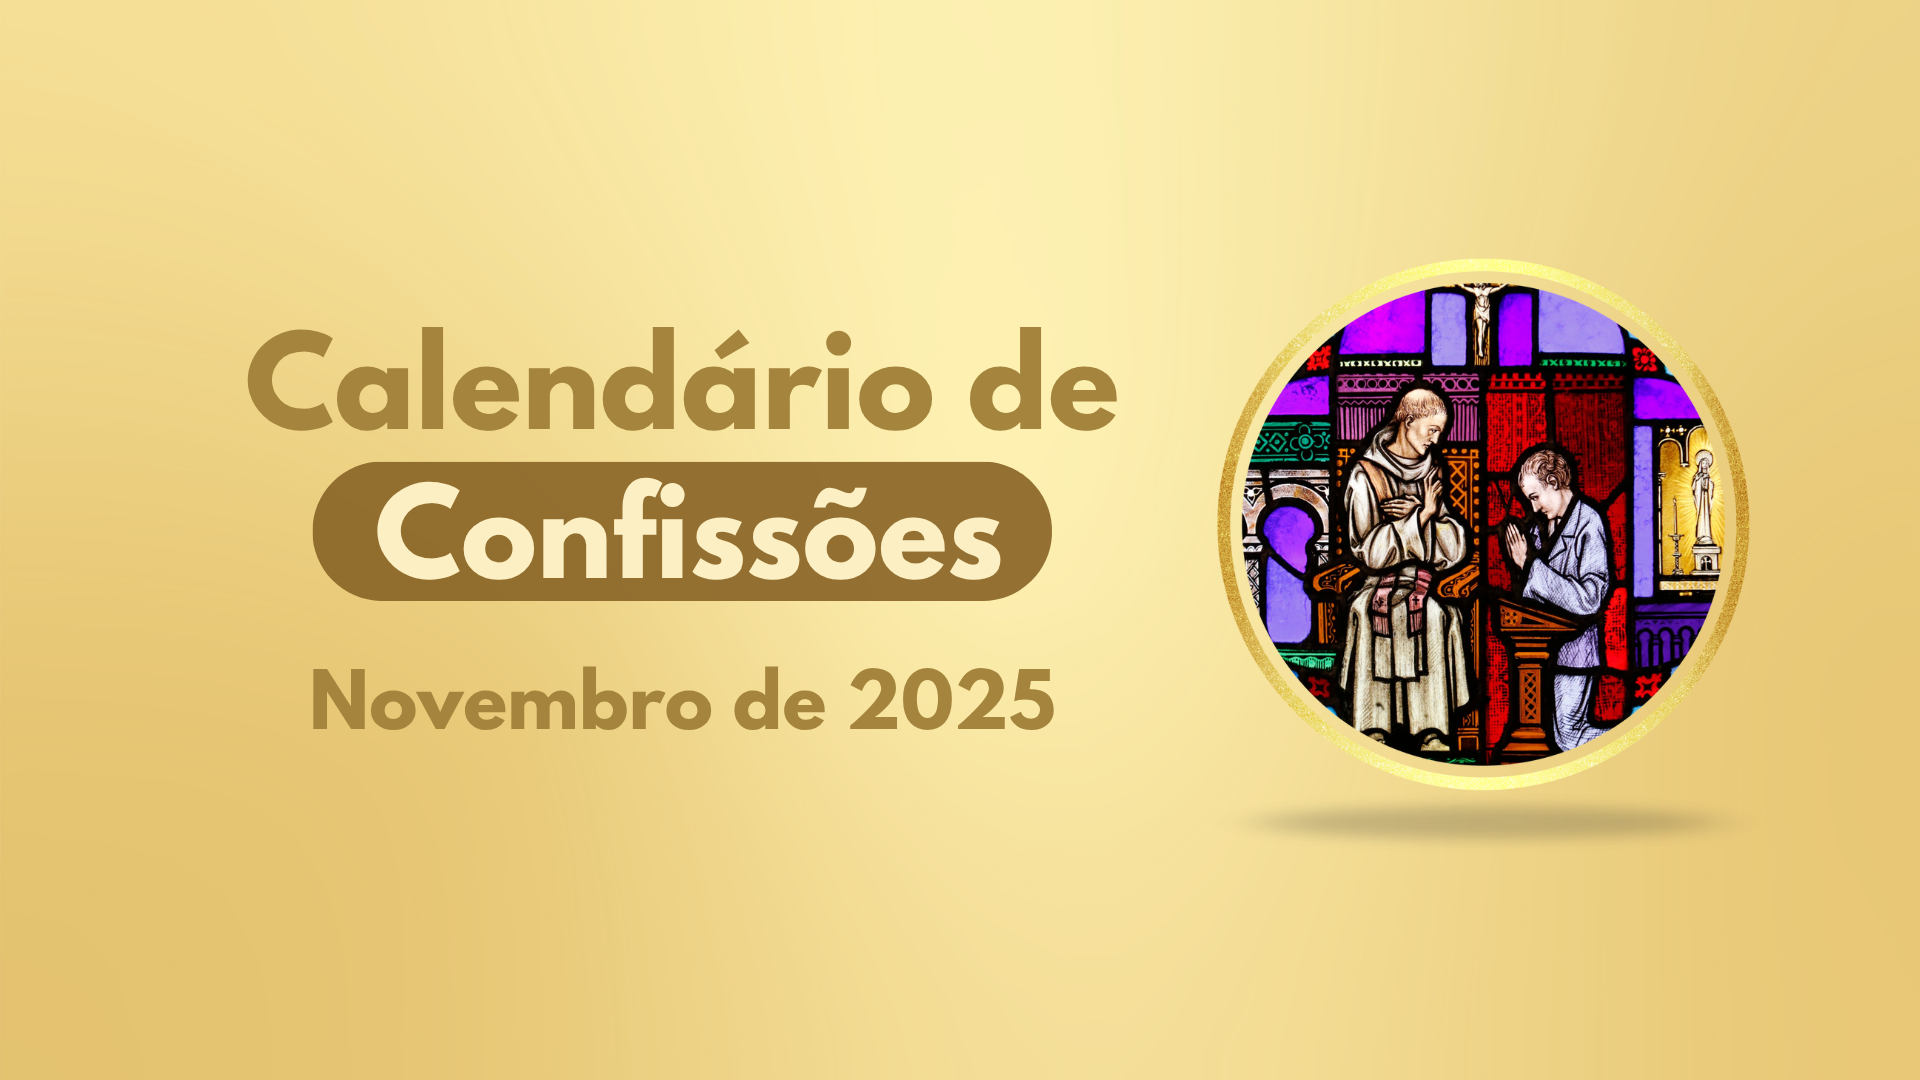
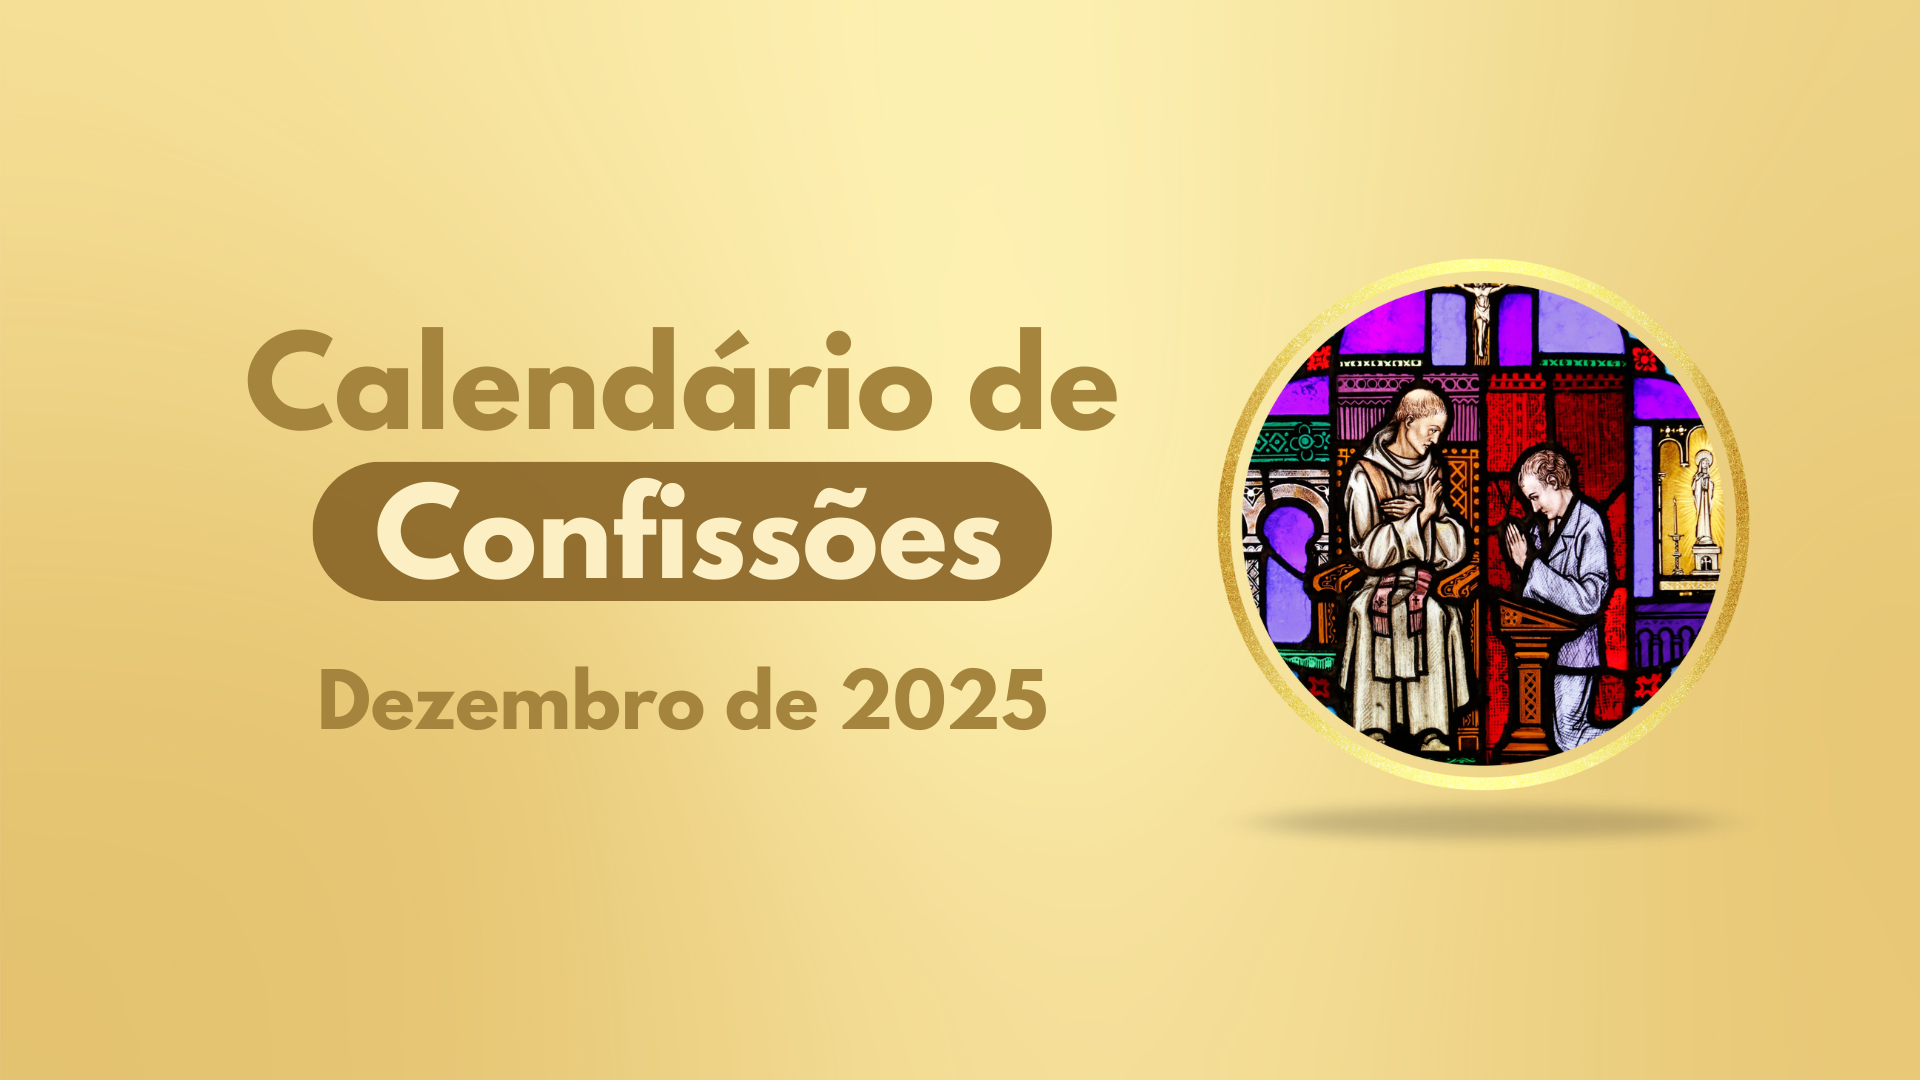
Att

Changed region(s): [[0.1562, 0.6111, 0.5625, 0.6722]]

diff --git a/src/pages/TelaInicial.tsx b/src/pages/TelaInicial.tsx
@@ -7,20 +7,20 @@ const TelaInicial: React.FC = () => {
   const noticiasConfissoes = [
     {
       id: "4",
-      titulo: "Calendário de Confissões de Setembro",
+      titulo: "Calendário de Confissões de Dezembro",
       link: "/noticias/4",
       imagem: "/confissao.png",
-      alt: "Calendário de Confissões de Setembro",
+      alt: "Calendário de Confissões de Dezembro",
     },
   ];
 
   const noticiasMissas = [
     {
       id: "3",
-      titulo: "Calendário de Missas de Setembro",
+      titulo: "Calendário de Missas de Dezembro",
       link: "/noticias/3",
       imagem: "/missa.png",
-      alt: "Calendário de Missas de Setembro",
+      alt: "Calendário de Missas de Dezembro",
     },
   ];
 
